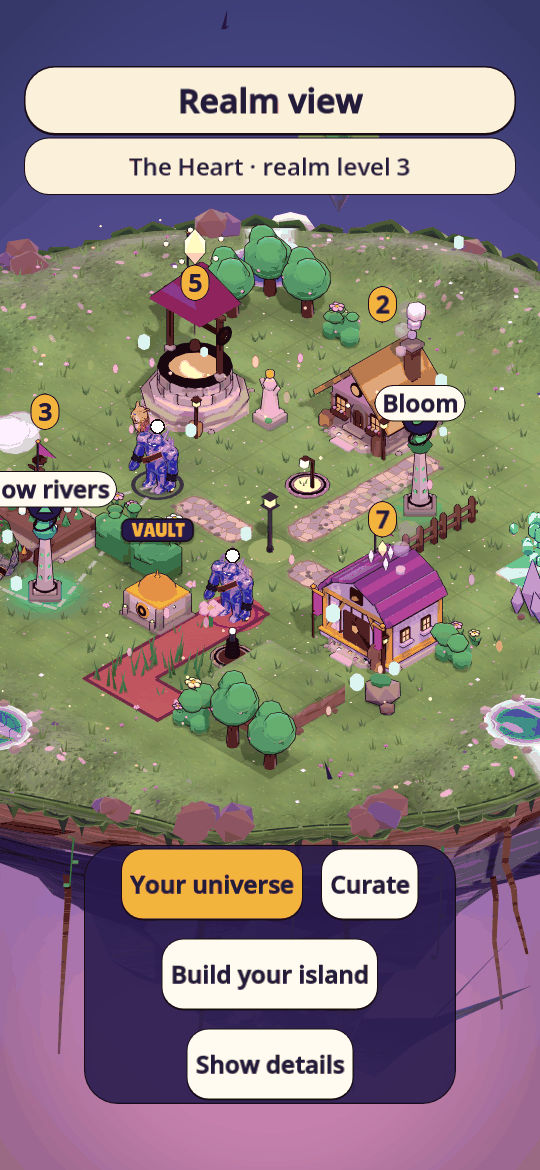
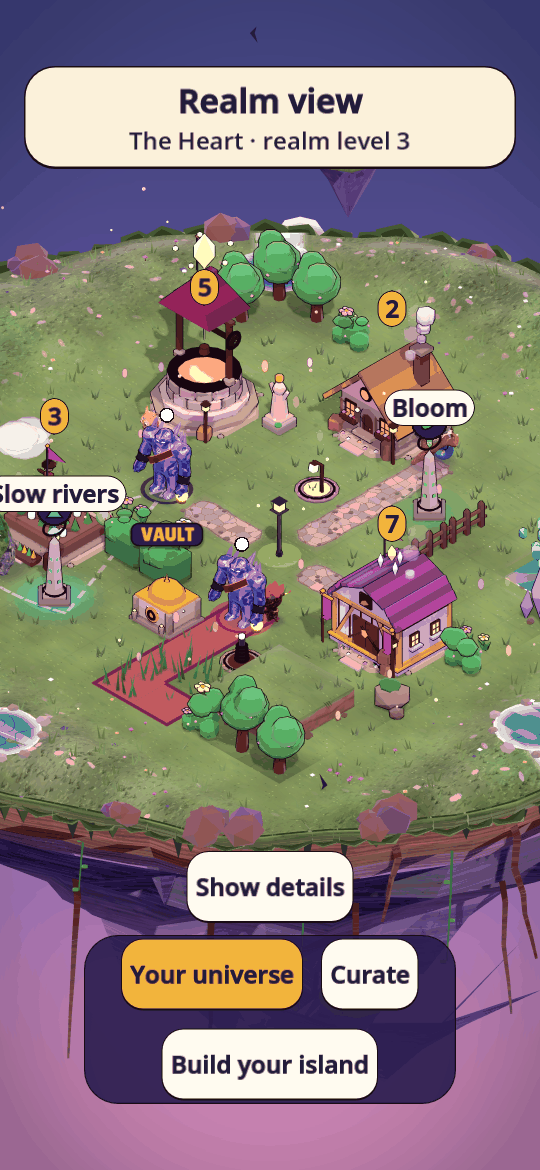
Realm view: its idle residents stroll the round of its doors, its resting ones nap by the Hearth
Who lives in a realm and is not at work comes from the home view (a
realm's Hearth, or the Spire for the Heart); the design's walk and nap
clips; spread evenly round the doors. The shots' fixture gains two idle
residents of the Heart.

Claude-Session: https://claude.ai/code/session_01C9x3Nc5FadGRCzregkh7cv

diff --git a/docs/art/tracks/T6.md b/docs/art/tracks/T6.md
@@ -119,6 +119,9 @@ They take `HOUR`, and the realm shot takes `TAP=1`, which taps the Garden.
   - The guards on the realm, curation and defence screens already come from `WorldView.figure_maker`, in the guard form.
 - **Folding the words.** A handle above the sheet ("Hide details"/"Show details", new strings in every locale) folds the words away, and the island reframes into the room they leave. The choice holds from screen to screen. It is on the realm, scout, curation, planner and defence screens. `StageTests` checks it, together with the realm view's law signatures.
 - **Scout mist.** The mist is now soft cards that face the camera (`stage_mist.gdshader`, one mesh). Each has rounded lobes, lit lighter on top and violet beneath, and drifts unless reduced motion is on. The planner's Heart and the Observatory's pictures wear the same mist, for the same reason: they know a realm only by its counts.
+- **Residents.** The realm view's residents come from the home view: characters who live in this realm, through a realm's Hearth or, for the Heart, the Keeper's Spire. Idle ones stroll the round of the buildings' doors, playing `walk`. Resting ones nap by the Hearth, playing `nap`.
+- **Curation moves.** The picked post's moves now carry gold chevrons on the tiles it may move to.
+- **Headers.** Each screen's title and header share one ribbon.
 - **Framing.** The realm view centres halfway toward its town. The panels' cover is measured from the sheet's handle.
 
 ### §21.3 budgets on each screen's camera
